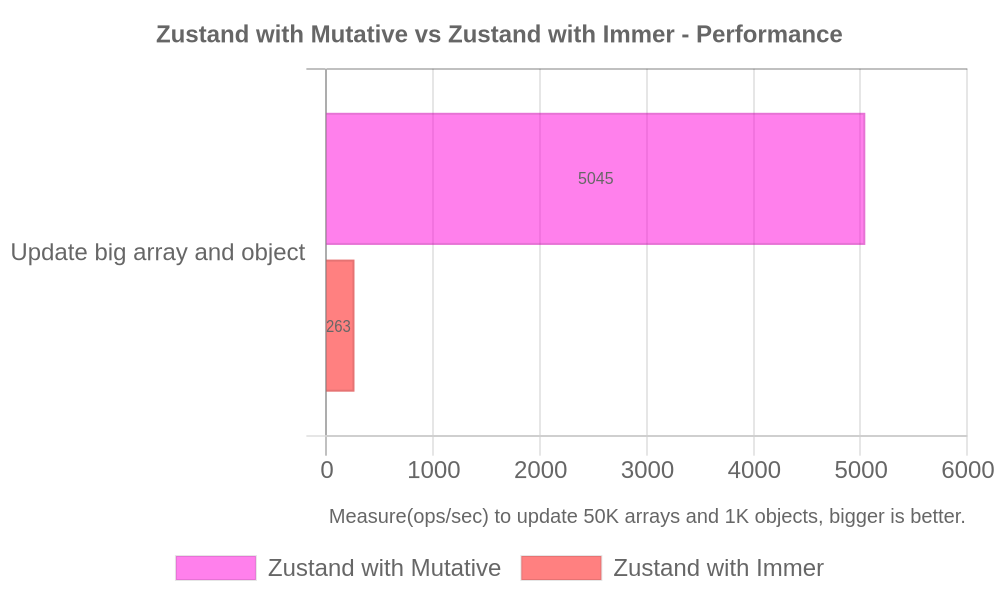
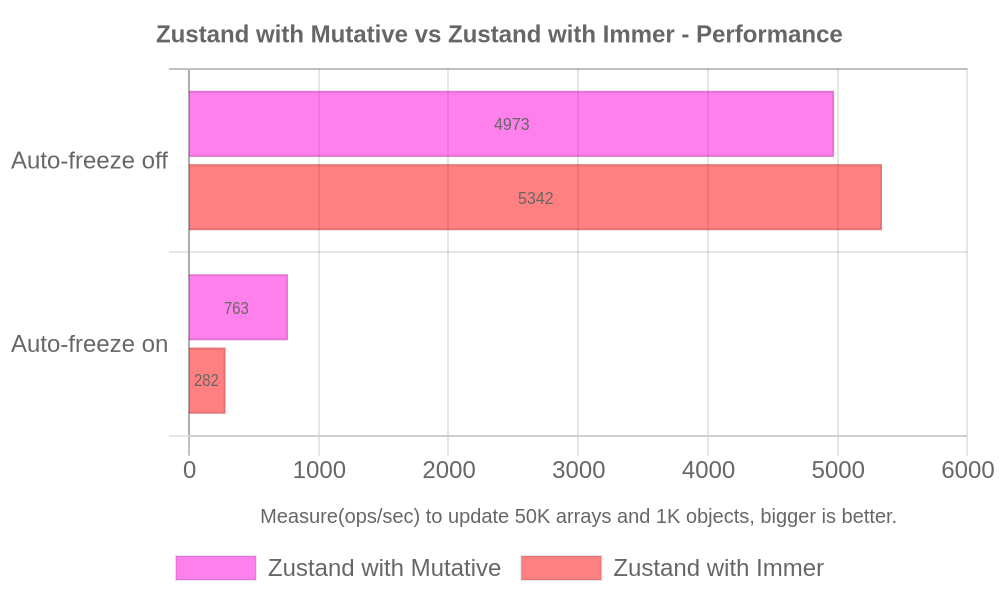
docs(readme): update the benchmark with matched auto-freeze settings

diff --git a/README.md b/README.md
@@ -8,19 +8,21 @@ A [Mutative](https://github.com/unadlib/mutative) middleware for Zustand enhance
 
 With the Mutative middleware, you can simplify the handling of immutable data in Zustand in a mutable way, allowing you to use immutable state more conveniently.
 
-`zustand-mutative` is 2-6x faster than zustand with spread operation, more than 10x faster than `zustand/middleware/immer`. [Read more about the performance comparison in Mutative](https://mutative.js.org/docs/getting-started/performance).
+In the [benchmark below](#benchmarks), with auto-freeze on in both, `zustand-mutative` is about 2.7x as fast as `zustand/middleware/immer`; with auto-freeze off in both, Mutative's default, Immer is about 7% faster. Across the 97 workloads of Mutative's own benchmark, Mutative 2 was about 3.6x as fast as Immer with the same settings and 6.6x with each library's defaults. [Read more about the performance comparison in Mutative](https://mutative.js.org/docs/getting-started/performance).
 
 ## Benchmarks
 
-Measure(ops/sec) to update 50K arrays and 1K objects, bigger is better([view source](./scripts/benchmark.ts)). [Mutative v2.0.0 vs Immer v11.1.21]
+Measure(ops/sec) to update 50K arrays and 1K objects, bigger is better([view source](./scripts/benchmark.ts)). Both libraries run with auto-freeze off, and then both with auto-freeze on; Immer freezes by default and Mutative does not. [Mutative v2.0.0 vs Immer v11.1.21]
 
 ![Benchmark](benchmark.jpg)
 
 ```
-Zustand with Mutative - Update big array and object x 5,045 ops/sec ±1.96% (82 runs sampled)
-Zustand with Immer - Update big array and object x 263 ops/sec ±3.81% (85 runs sampled)
-
-The fastest method is Zustand with Mutative - Update big array and object
+Zustand with Mutative - Auto-freeze off x 4,973 ops/sec ±2.47% (82 runs sampled)
+Zustand with Immer - Auto-freeze off x 5,342 ops/sec ±2.73% (77 runs sampled)
+Zustand with Mutative - Auto-freeze on x 763 ops/sec ±1.15% (89 runs sampled)
+Zustand with Immer - Auto-freeze on x 282 ops/sec ±0.52% (91 runs sampled)
+The fastest method with Auto-freeze off is Zustand with Immer - Auto-freeze off
+The fastest method with Auto-freeze on is Zustand with Mutative - Auto-freeze on
 ```
 
 ## Installation
